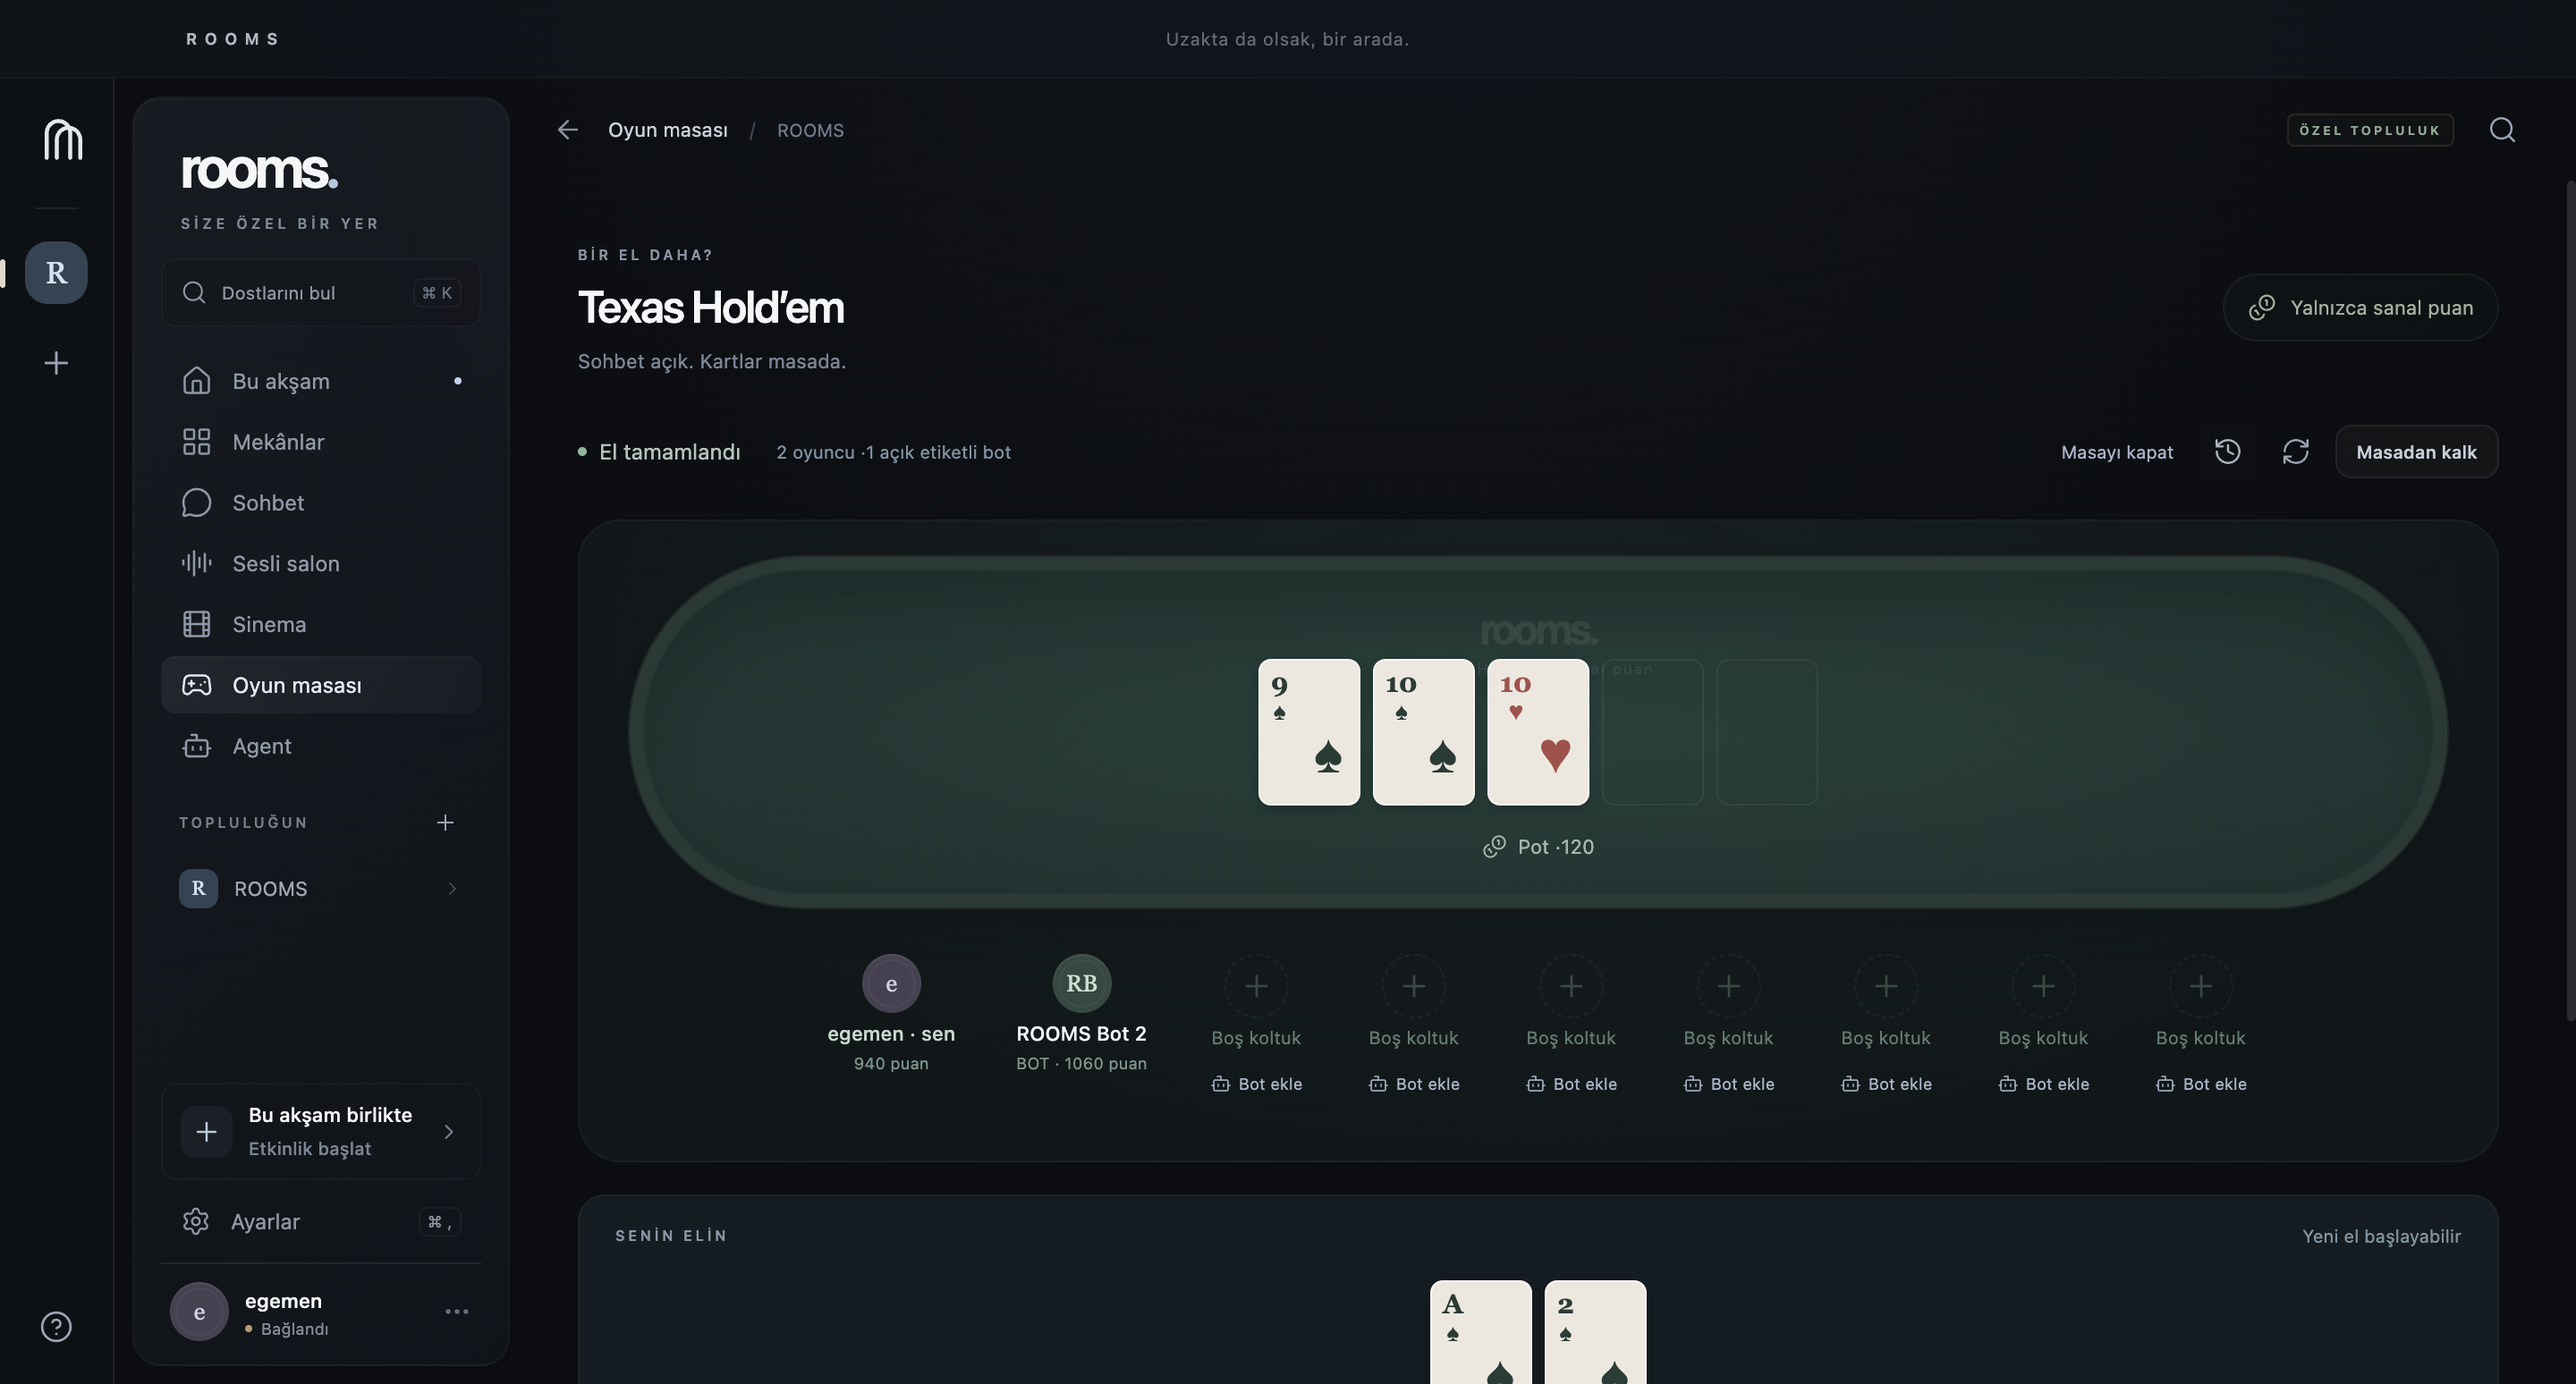
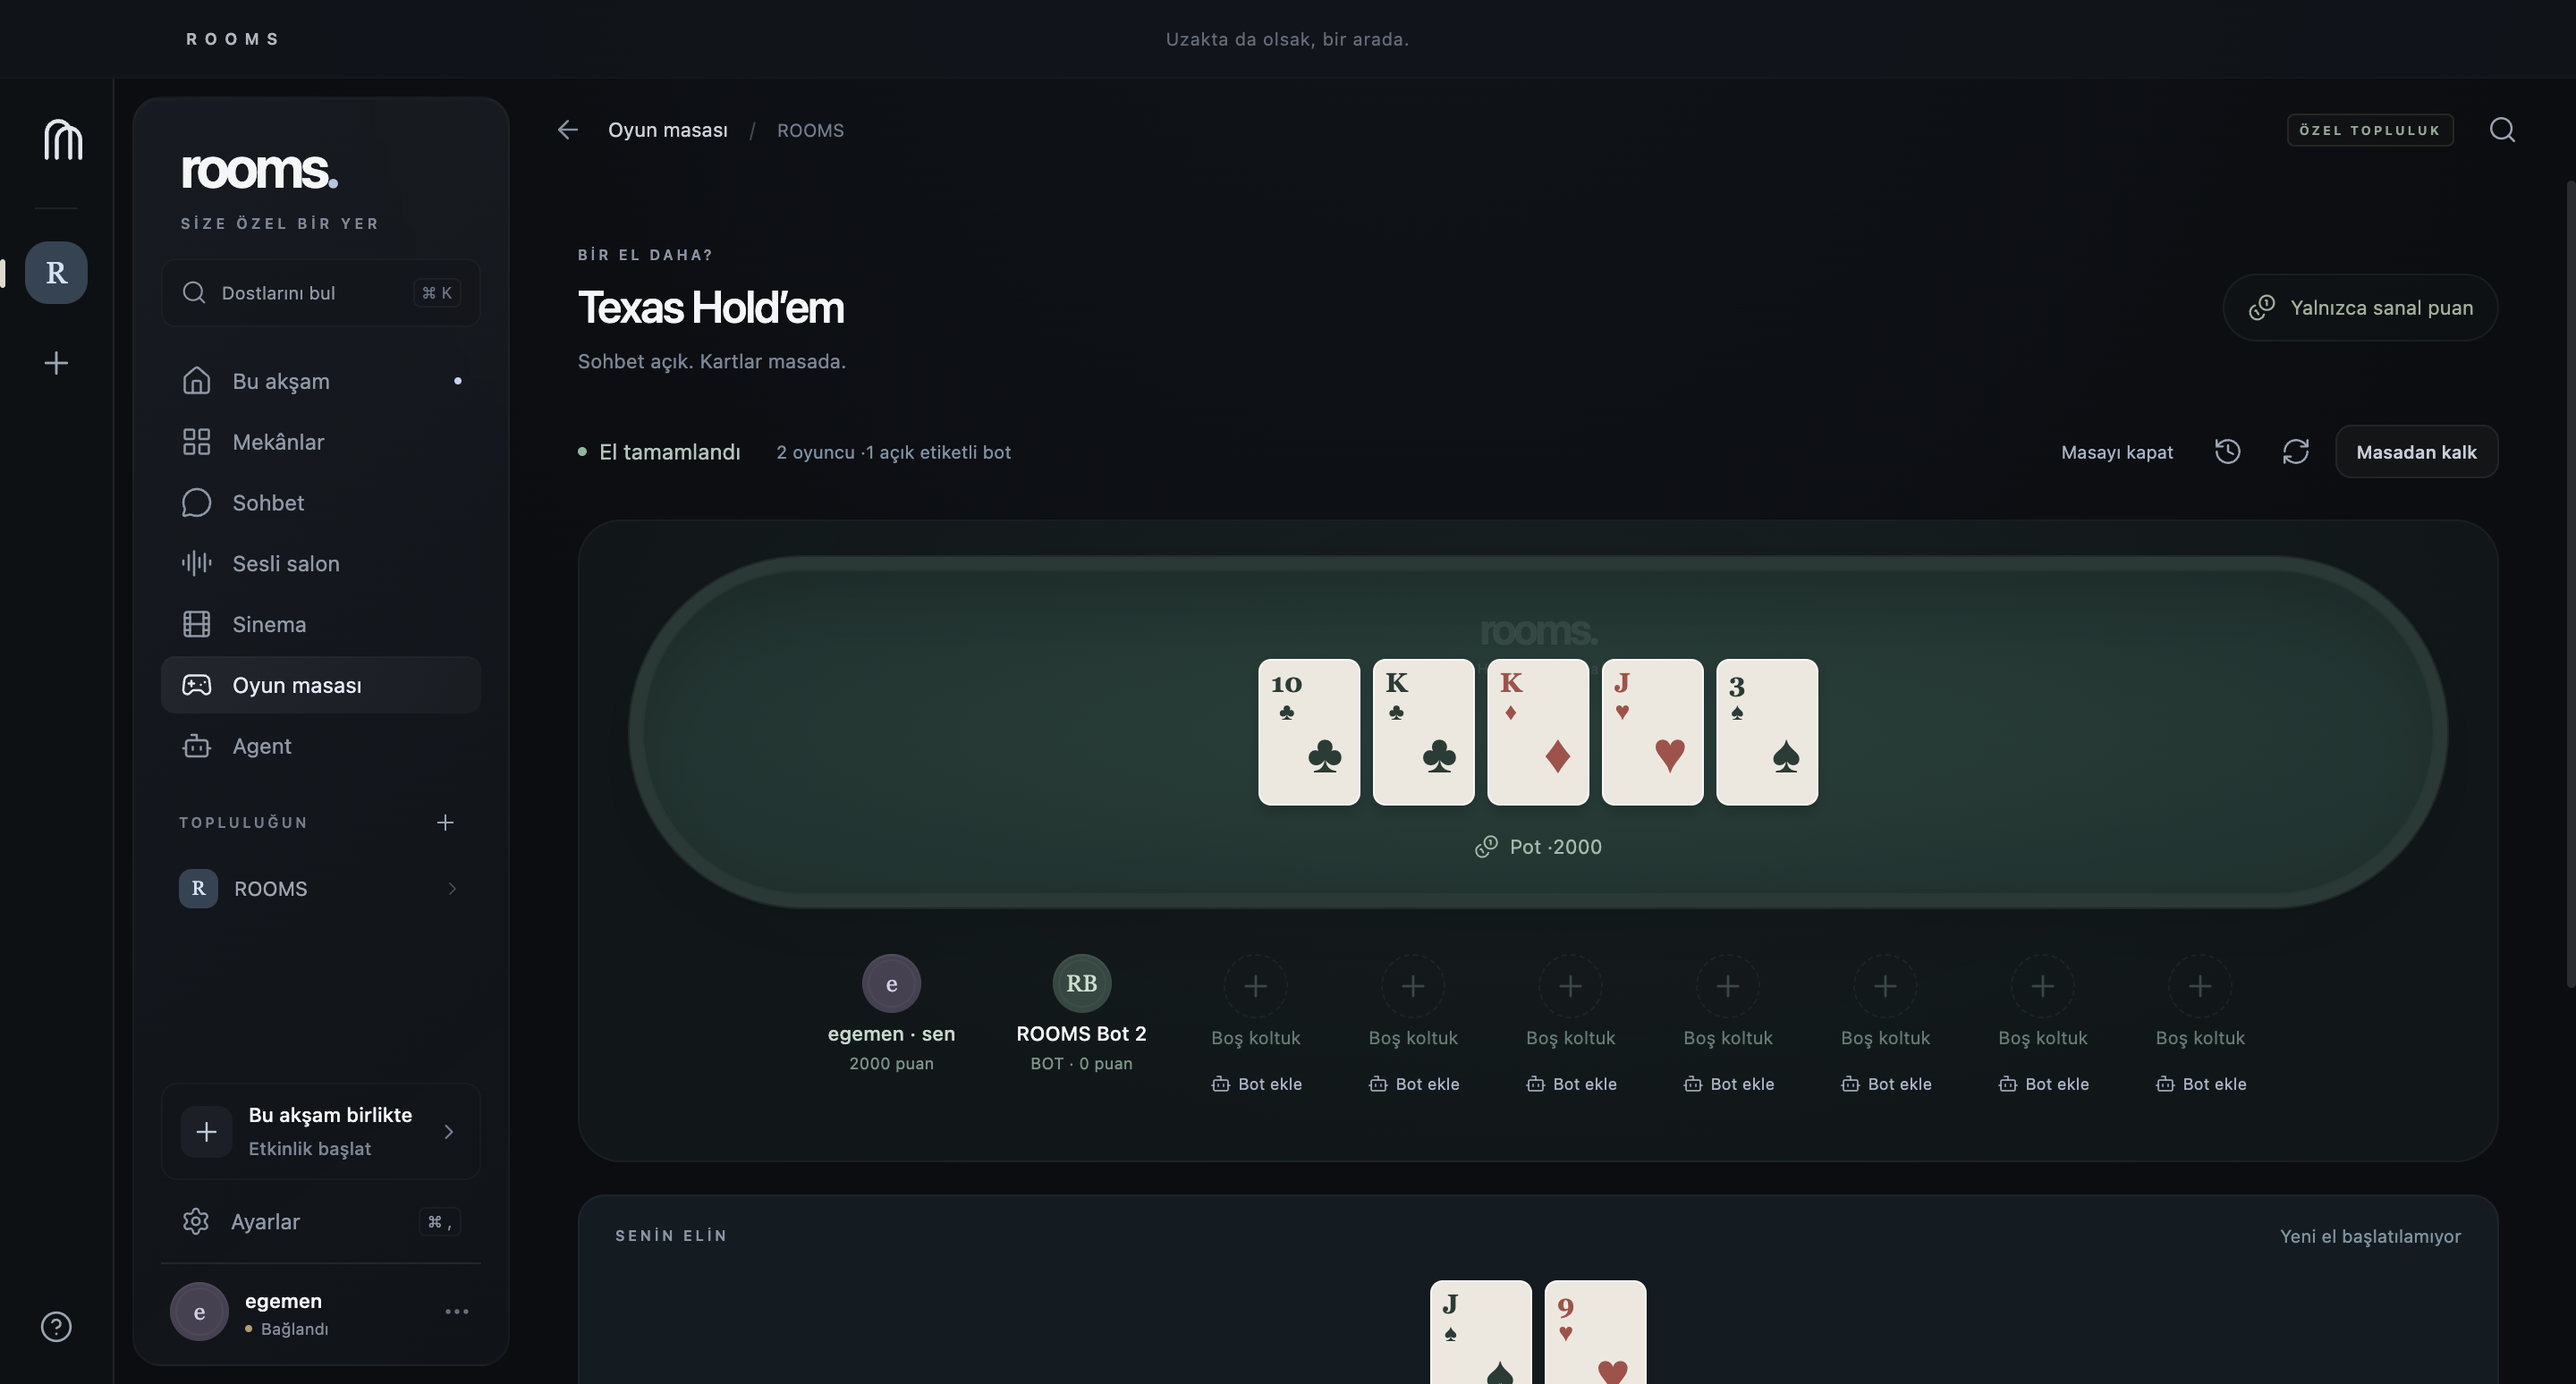
test(desktop): verify native Holdem full hands and restart guard

diff --git a/docs/CONTINUATION_CHECKPOINT.md b/docs/CONTINUATION_CHECKPOINT.md
@@ -128,3 +128,15 @@ Immediate next bounded desktop acceptance: verify the extracted 0.1.7 canvas wit
 `node scripts/verify-native-canvas.mjs` PASSed six additional cases on two actual packaged Apple Silicon 0.1.7 clients against the public core. Actual pointer movements produced a green stroke with bounded 0–1000/0–620 coordinates; the other client received that color/geometry. Pointer eraser could not remove a guest note; erasing an actual painted own segment removed only that stroke and preserved the note. Undo restored the stroke to the other client. Actual native window resizing to 1280 and 900 pixels produced no document overflow, off-window controls or overlapping toolbar groups, and preserved the note draft. Requested height 800 yielded actual content height 774 (native chrome); results record these actual bounds rather than claiming a simulated browser viewport.
 
 Zero renderer errors; exact uniquely owned channel and both private profiles were removed. Actual screenshots at both widths were inspected. No service stop/deployment, provider operation or published asset replacement occurred. Evidence: infra/production/NATIVE_CANVAS_RESULTS.json and whiteboard-native-1280.png / whiteboard-native-900.png under docs/screenshots/production. This certifies these canvas controls/layouts, not every platform/scaling combination or physical friends' sessions. Latest preview remains 0.1.7. Next independent acceptance is complete native Holdem call/check/all-in settlement and advanced 101; whole-network/six-native-client and external prerequisites remain open.
+
+## 2026-10-10 — complete native Holdem and 0.1.8 restart guard
+
+Actual packaged 0.1.7 Holdem acceptance passed natural public call/check through preflop, flop, turn and river, complete five-card showdown and all-in settlement. Only live hand seats carry in-progress chip deductions; the first harness incorrectly counted the pre-hand summary and reported 2030 instead of 2000. That observer failure and exact owned cleanup remain in NATIVE_HOLDEM_FULL_BEFORE_ACCOUNTING_RESULTS.json; corrected 0.1.7 acceptance remains separately versioned. No cards or production balances were injected.
+
+Visual QA found a real UI issue: a table with a player below the required 20-point blind still offered an enabled new-hand action. Version 0.1.8 disables that action with a visible reason and the existing close/new-table recovery. It also requires an Activity connection and enough seats. No point refill, rule change or backend deployment occurred.
+
+The actual 0.1.8 package then passed two complete natural hands against the public core: call/check on every street (40-point pot paid), all-in showdown (2000-point pot paid), 2000 total virtual chips conserved, other hands hidden before reveal, correct native finished state and matching history. A bot ended with zero points; the real new-hand button was disabled with the precise blind explanation. Actual screenshot inspected. Zero renderer errors; exact owned table/channel and temporary profile cleanup passed. Scope is one native QA human with a labelled bot on one Mac, not multi-player poker or physical friends.
+
+109 tests/25 files, typecheck, desktop build, unsigned Apple Silicon DMG/ZIP and actual packaged launch/local playback passed; all 22 bundled files match. Previous 0.1.7 package evidence is retained separately. Evidence: infra/production/NATIVE_HOLDEM_FULL_RESULTS.json, docs/PACKAGE_TEST_RESULTS.json and game-holdem-full-*.png / game-holdem-insufficient-chips.png. Publication/asset verification follows in the next checkpoint entry. No service was stopped or deployed, Hoppers was untouched, no reset was performed. No QA process remains active.
+
+Remaining independent gates: advanced native 101 opening/pairs/joker/processing/full hands, whole-network recovery and six distinct native clients. Separate Agent host/accounts, authorized personal media, signing and physical-device/TURN prerequisites remain open; automation stays active. Historical whiteboard/canvas checks apply to 0.1.7, complete Batak/Blackjack/recovery to 0.1.6, ten-game/101 isolation to 0.1.5 and soak/shared YouTube to 0.1.4.

diff --git a/docs/OVERNIGHT_DEPLOYMENT_PLAN.md b/docs/OVERNIGHT_DEPLOYMENT_PLAN.md
@@ -163,3 +163,15 @@ Private v0.1.7 publication PASSed all three uploaded asset size/SHA-256 matches,
 `node scripts/verify-native-canvas.mjs` PASSed six additional cases on two actual packaged Apple Silicon 0.1.7 clients against the public core. Actual pointer movements produced a green stroke with bounded 0–1000/0–620 coordinates; the other client received that color/geometry. Pointer eraser could not remove a guest note; erasing an actual painted own segment removed only that stroke and preserved the note. Undo restored the stroke to the other client. Actual native window resizing to 1280 and 900 pixels produced no document overflow, off-window controls or overlapping toolbar groups, and preserved the note draft. Requested height 800 yielded actual content height 774 (native chrome); results record these actual bounds rather than claiming a simulated browser viewport.
 
 Zero renderer errors; exact uniquely owned channel and both private profiles were removed. Actual screenshots at both widths were inspected. No service stop/deployment, provider operation or published asset replacement occurred. Evidence: infra/production/NATIVE_CANVAS_RESULTS.json and whiteboard-native-1280.png / whiteboard-native-900.png under docs/screenshots/production. This certifies these canvas controls/layouts, not every platform/scaling combination or physical friends' sessions. Latest preview remains 0.1.7. Next independent acceptance is complete native Holdem call/check/all-in settlement and advanced 101; whole-network/six-native-client and external prerequisites remain open.
+
+## 2026-10-10 — complete native Holdem and 0.1.8 restart guard
+
+Actual packaged 0.1.7 Holdem acceptance passed natural public call/check through preflop, flop, turn and river, complete five-card showdown and all-in settlement. Only live hand seats carry in-progress chip deductions; the first harness incorrectly counted the pre-hand summary and reported 2030 instead of 2000. That observer failure and exact owned cleanup remain in NATIVE_HOLDEM_FULL_BEFORE_ACCOUNTING_RESULTS.json; corrected 0.1.7 acceptance remains separately versioned. No cards or production balances were injected.
+
+Visual QA found a real UI issue: a table with a player below the required 20-point blind still offered an enabled new-hand action. Version 0.1.8 disables that action with a visible reason and the existing close/new-table recovery. It also requires an Activity connection and enough seats. No point refill, rule change or backend deployment occurred.
+
+The actual 0.1.8 package then passed two complete natural hands against the public core: call/check on every street (40-point pot paid), all-in showdown (2000-point pot paid), 2000 total virtual chips conserved, other hands hidden before reveal, correct native finished state and matching history. A bot ended with zero points; the real new-hand button was disabled with the precise blind explanation. Actual screenshot inspected. Zero renderer errors; exact owned table/channel and temporary profile cleanup passed. Scope is one native QA human with a labelled bot on one Mac, not multi-player poker or physical friends.
+
+109 tests/25 files, typecheck, desktop build, unsigned Apple Silicon DMG/ZIP and actual packaged launch/local playback passed; all 22 bundled files match. Previous 0.1.7 package evidence is retained separately. Evidence: infra/production/NATIVE_HOLDEM_FULL_RESULTS.json, docs/PACKAGE_TEST_RESULTS.json and game-holdem-full-*.png / game-holdem-insufficient-chips.png. Publication/asset verification follows in the next checkpoint entry. No service was stopped or deployed, Hoppers was untouched, no reset was performed. No QA process remains active.
+
+Remaining independent gates: advanced native 101 opening/pairs/joker/processing/full hands, whole-network recovery and six distinct native clients. Separate Agent host/accounts, authorized personal media, signing and physical-device/TURN prerequisites remain open; automation stays active. Historical whiteboard/canvas checks apply to 0.1.7, complete Batak/Blackjack/recovery to 0.1.6, ten-game/101 isolation to 0.1.5 and soak/shared YouTube to 0.1.4.

diff --git a/docs/FEATURE_MATRIX.md b/docs/FEATURE_MATRIX.md
@@ -12,7 +12,7 @@ This matrix supersedes the Spacebar-era matrix. Historical transport evidence re
 | Authoritative shared Activity timeline, queue and host transfer | Service tests; two actual Electron clients synchronize local Cinema play/pause/seek | Internet reconnect/restart and sustained synchronization |
 | Activity transport admission | Real six-connection/two-identity public load passed 151 seconds after shared-IP and authorization-error fixes; anonymous/outsider denial and cleanup passed | Six distinct identities/native clients and sustained room capacity |
 | Shared polls and whiteboard | Public authorized durable state; packaged 0.1.6 note/poll/vote recovery and live social chat. Two packaged 0.1.7 clients passed scoped own add/remove undo, restoration sequence, draft/history recovery and real native SVG save/cancel, seven cases, zero renderer errors. Six further packaged 0.1.7 pointer/color/own eraser/undo and 1280/900 native layout cases pass | Broader collaboration/friends sessions and other platform/scaling combinations; undo is local to the current board view and bounded to 50 own successful actions |
-| Holdem, Blackjack, four Batak variants, 101 | Authoritative engines, seven public full hands, hidden-state/public-result tests, completed bot games; ten packaged 0.1.5 public create/action/close cases including four 101 combinations; two native grouping/removal and clean new-table cases; native Blackjack double/hit/split/stand and six 0.1.6 settled hands passed; all four native 0.1.6 Batak complete hands, visible score history and hidden other hands passed | Advanced native 101 meld/pairs/joker and other Holdem actions, friends’ full rules/play sessions and Internet reconnect acceptance |
+| Holdem, Blackjack, four Batak variants, 101 | Authoritative engines, seven public full hands, hidden-state/public-result tests, completed bot games; ten packaged 0.1.5 public create/action/close cases including four 101 combinations; two native grouping/removal and clean new-table cases; native Blackjack double/hit/split/stand and six 0.1.6 settled hands passed; all four native 0.1.6 Batak complete hands, visible score history and hidden other hands passed; native 0.1.8 Holdem call/check through every street, all-in showdown, conserved chips, matching history and insufficient-blind restart guard passed | Advanced native 101 meld/pairs/joker and multi-player poker rules, friends’ full rules/play sessions and Internet reconnect acceptance |
 | YouTube Together | Two actual packaged 0.1.4 clients on public HTTPS passed official play/pause, pointer/keyboard seek, membership and late return; owned loading interruption/retry and provider error passed | Whole-network reconnect and sustained sync; normal per-viewer autoplay gesture remains required |
 | Personal IPTV M3U/HLS, Xtream and XMLTV | Native vault, opaque media handles, parsers and network/security tests; UI implemented | Authorized provider playback, EPG and codec tests |
 | Personal Real-Debrid | Documented device-flow client/native vault and personal library UI | Owner public client ID and authorized account acceptance |
